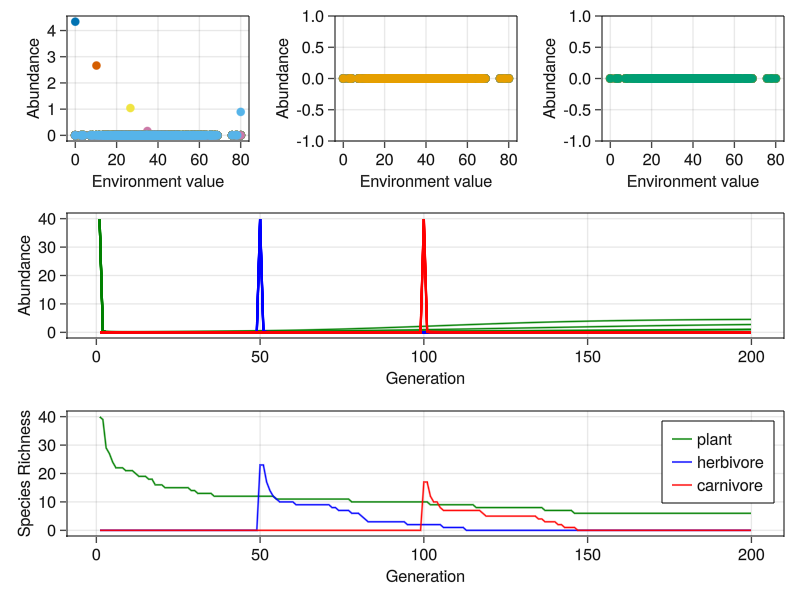
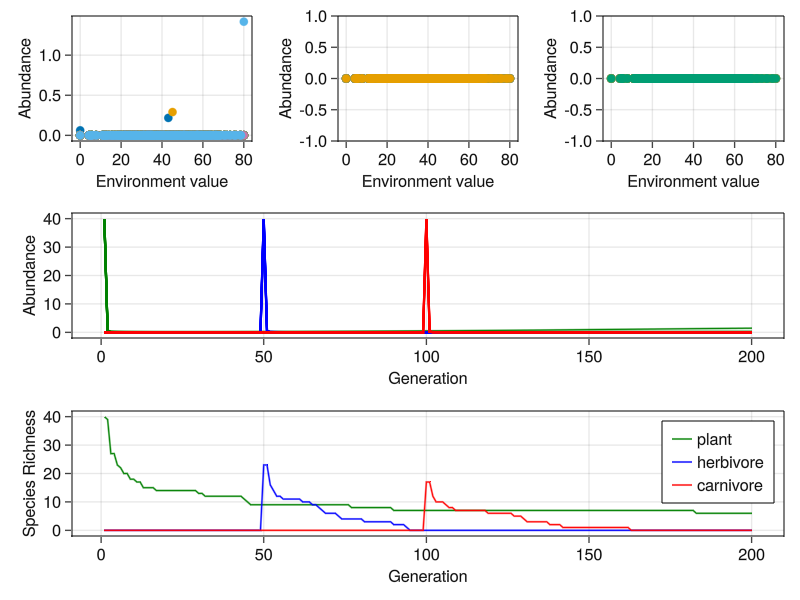
:100: REVERT THIS

diff --git a/README.md b/README.md
@@ -1,3 +1,86 @@
 # Omnomnomivores
 
-Sadly no omnomnomivores will be featured 😔
+## Community Dynamics Just aren't a Vibe...
+
+When we use the (what is hopefully) a carbon copy of the original Thompson &
+Gonzales model the abundances for species are just weird and seems to be a plant
+safe space as they are the only species to persist. See below:
+
+!['normal model'](figures/diagnostics.png)
+
+### Test 1: Set all but plant-plant interactions to zero
+
+Here all interactions are zero-ed except for plant-plant interactions. Here we
+can see if the root cause of the sus dynamics is because herbivores and
+carnivores are going extinct...
+
+!['only plant-plant'](figures/diagnostics_only_plant-plant.png)
+
+This could be the case... dynamics (shape-wise seem pretty unchanged)
+
+### Test 2: Lets ramp up the strength of interactions
+
+Lets start by setting the scaling parameter to zero.
+
+!['no scaling parameter'](figures/diagnostics_no_scaling.png)
+
+I did this by multiplying the interaction values by (0.33*S) since that should
+neutralise the original division term, in theory...
+
+### Test 3: Set all interactions to zero
+
+One last hail mary before we try and throw parameters at the problem. Lets set
+_ALL_ interactions to zero and see what happens to the plants.
+
+!['no interactions'](figures/diagnostics_no_interactions.png)
+
+### Test 4: The test that should've been the first test
+
+Double, triple, etc. check that the correct values are used for assigning
+interaction strengths...
+
+Looking at the source code for T&G some interesting notes.
+
+- The seem to have an 'upside down trophic structure' in the sense that they
+  have 5 'plants', 7 'herbivores', and 11 'carnivores'
+- All intraspecific interactions are set to 0.2 (all trophic levels)
+- Regarding previous it seems they then 'reset' `carnivore` intraspecific
+  interactions to 0.15
+- weight is defines as '1/80*3' and 80 = S (since there should be 80 species)
+  BUT when constructing the food web based on the numbers given on the first
+  food web there are only 23 species...  
+- Adding to the previous point nSpecies is set to 30...
+
+What is life???
+
+### Test 5: Lets try scaling of 1/80*3
+
+Since this is the scaling factor used lets give it a try...
+
+!['correct scaling param'](figures/diagnostics_correct_scaling.png)
+
+So the abundance numbers 'match' those from T&G script for what thats worth...
+
+### Test 6: Set all initial abundances for same time
+
+Set all initial abundances for all trophic levels for the first timestamp (no
+community assembly)
+
+!['no gradual invasion'](figures/diagnostics_same_init.png)
+
+### Test 7: Invert the trophic level
+
+Lets invert the number of species at the different trophic levels.
+
+!['inverted trophic levels'](figures/diagnostics_inverted_trophic.png)
+
+I mean they persist a bit longer. And also plants are still persisting so it is
+for sure the internal growth rate of the non plants at this point?
+
+### Test 8: Inverted and gradual invasion
+
+Lets go with the inverted trophic level but re-introduce gradual invasions.
+
+!['inverted trophic levels' but make it gradual invasions](figures/diagnostics_inverted_gradual.png)
+
+Nope!
